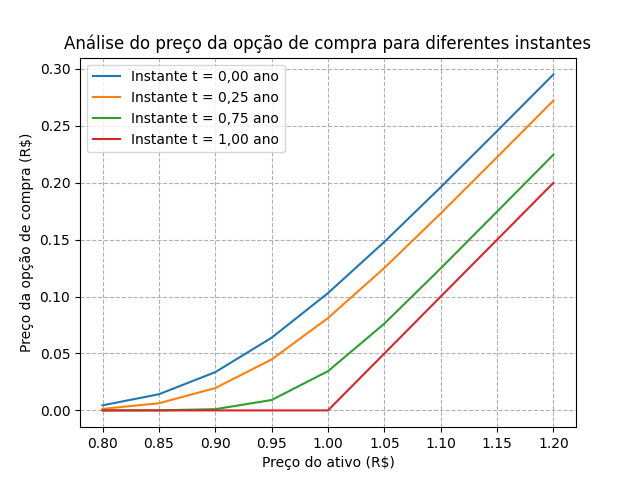
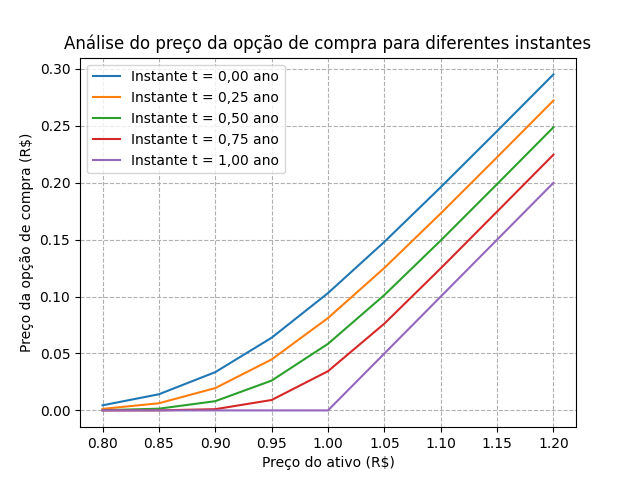
cenario 1 atualizado

diff --git a/methods.py b/methods.py
@@ -143,6 +143,7 @@ def generateSampleOfTimes(t, T):
     listOfTimes = []
     listOfTimes.append(0.0)
     listOfTimes.append(t/2)
+    listOfTimes.append(t)
     listOfTimes.append((T - t)/2 + t)
     listOfTimes.append(T)
     return listOfTimes
